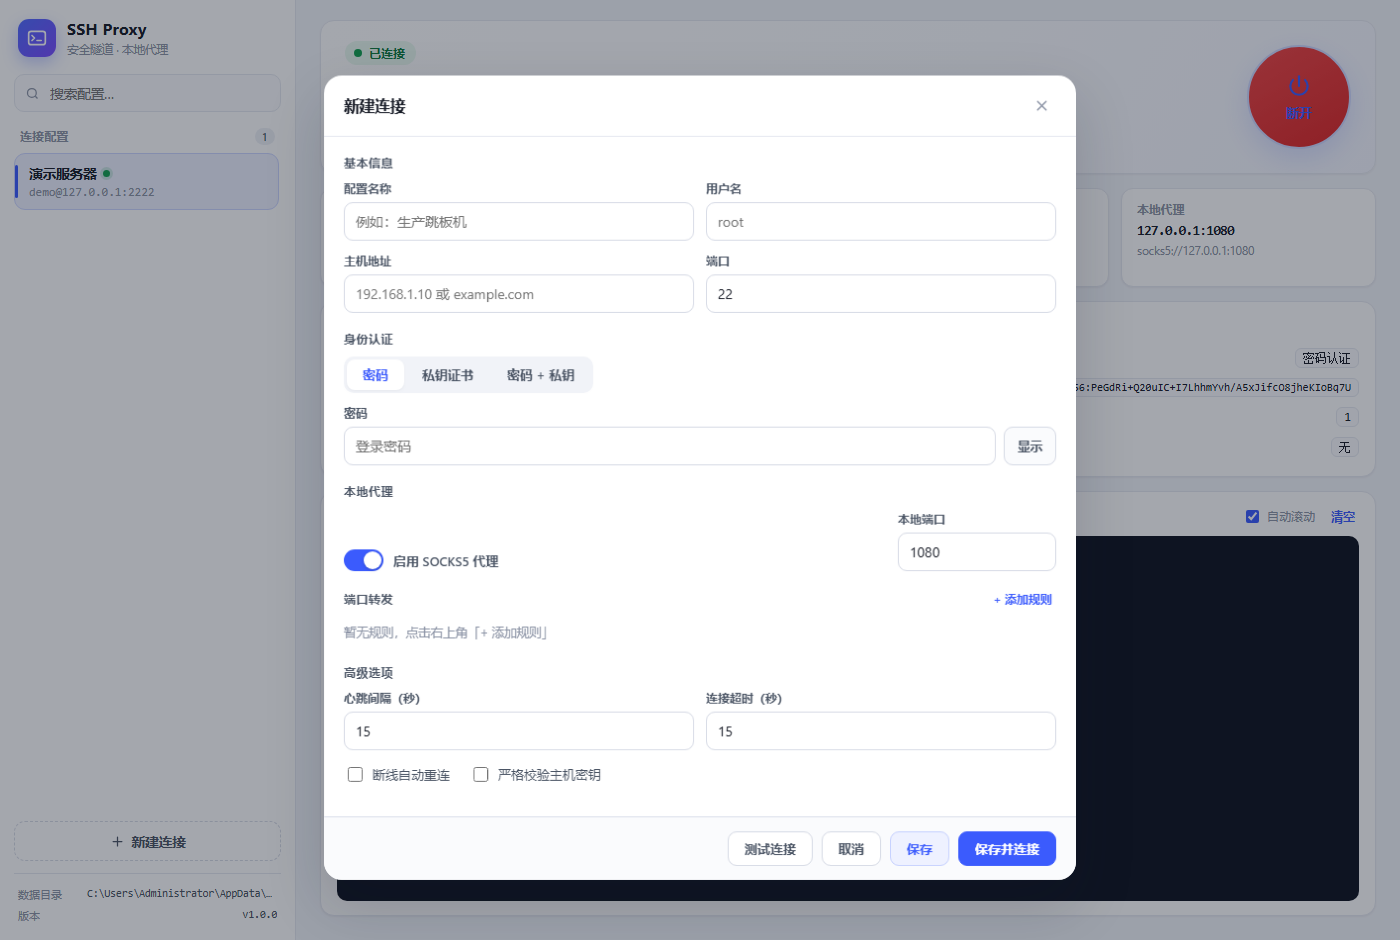
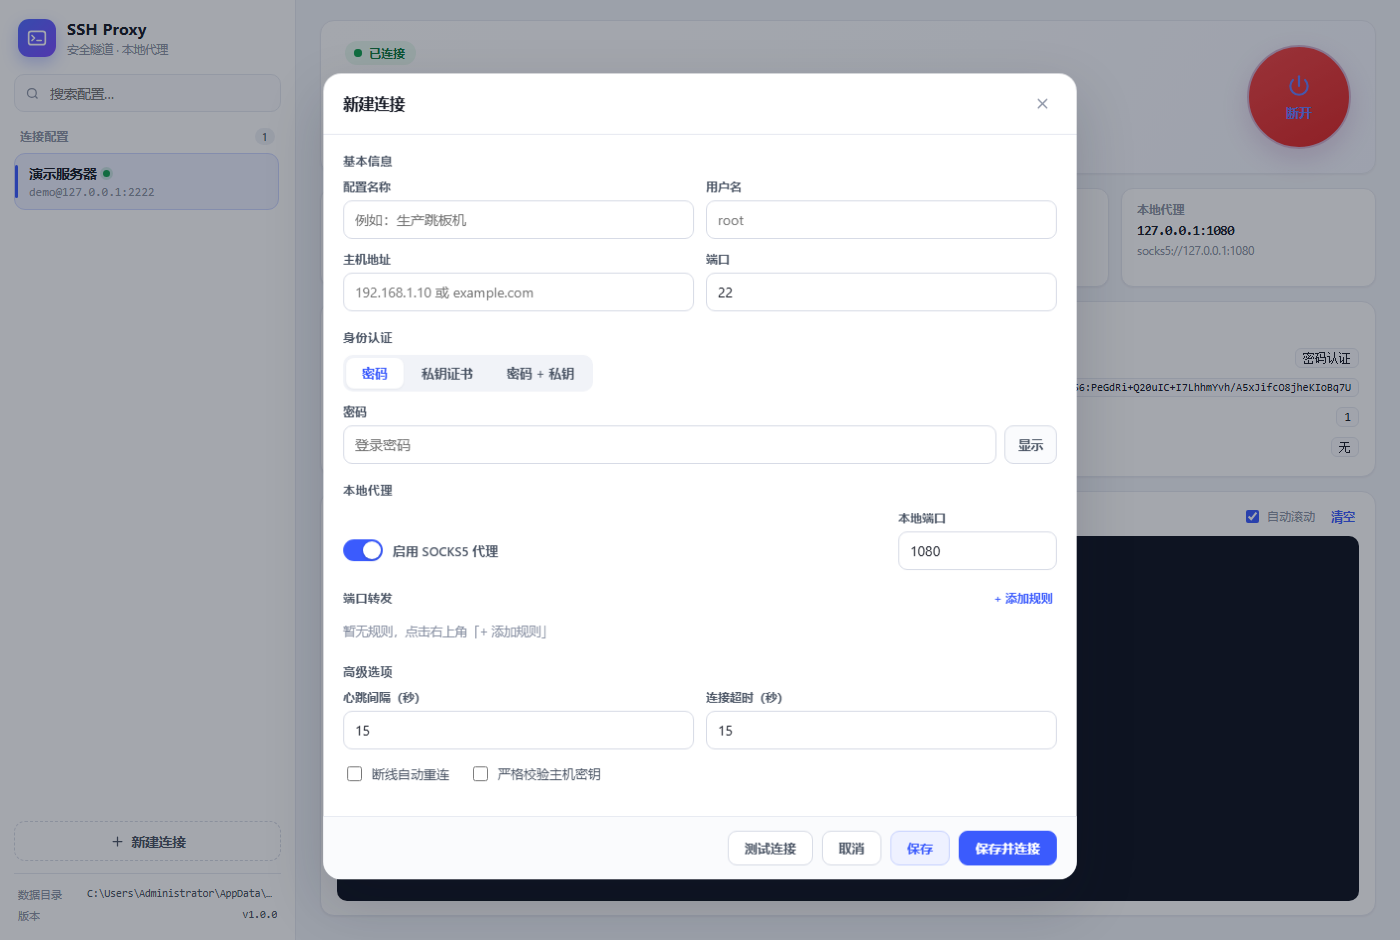
fix: 连接与列表选中项不一致时面板展示当前连接数据；微调代理开关对齐
- 面板/徽章/详情改为跟随活动连接，避免选中其它配置时显示为空
- docs 截图改用演示环境数据

diff --git a/web/style.css b/web/style.css
@@ -344,7 +344,7 @@ input, select, textarea { font-family: inherit; font-size: 14px; color: var(--te
 .paste-key textarea { width: 100%; margin-top: 10px; font-family: var(--mono); font-size: 11.5px; resize: vertical; }
 .paste-key .tip { font-size: 11.5px; color: var(--muted); margin: 6px 0 0; }
 
-.switch-row { display: flex; align-items: center; gap: 10px; cursor: pointer; flex: 1; }
+.switch-row { display: flex; align-items: center; gap: 10px; cursor: pointer; flex: 1; padding-bottom: 9px; }
 .switch-row input { display: none; }
 .switch-row .track {
   width: 40px; height: 22px; border-radius: 22px; background: #d7dbe6;
